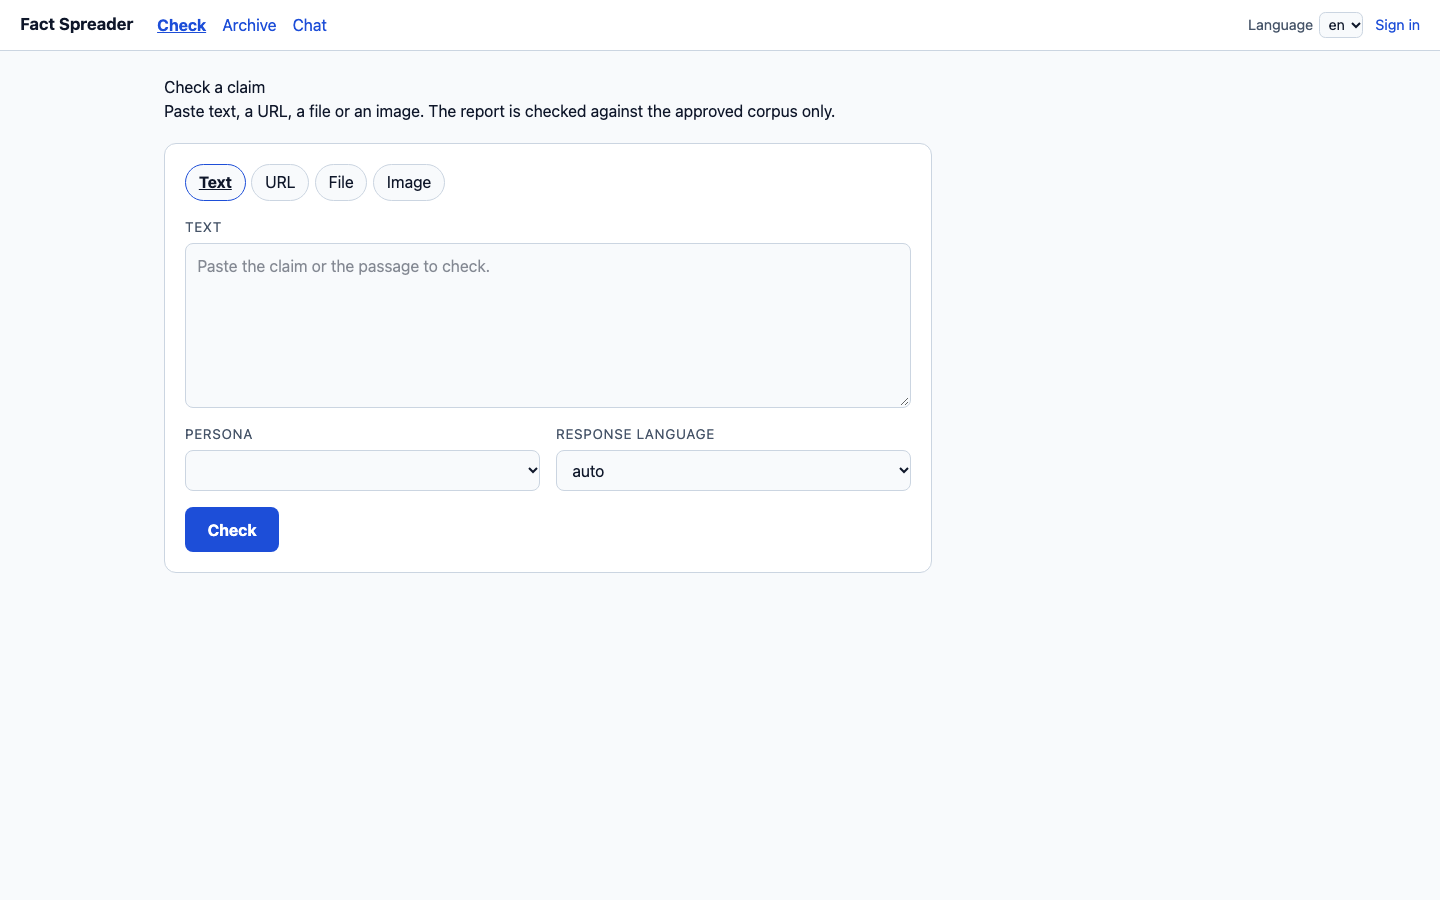
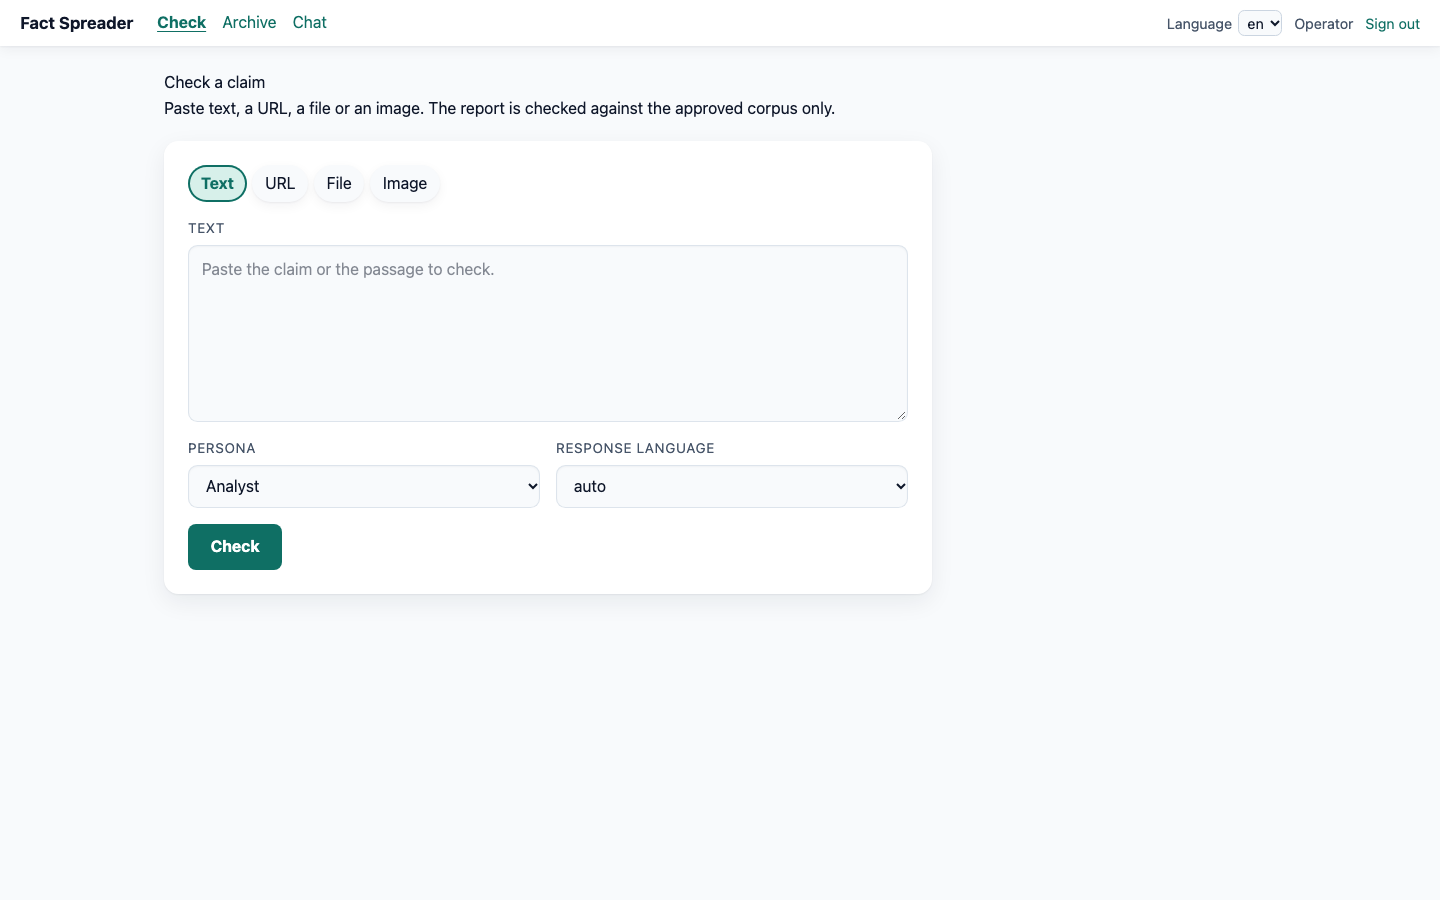
fix: revise the web design tokens, surfaces and spacing
Apply the first visual review: a deep teal brand accent instead of the default link
blue, layered box shadows instead of card and container borders, a shorter sticky
header with a shadow, larger section gaps and reading measure, roomier evidence cards,
and an accent-contrast token so the dark-mode primary button stays readable. Persona
options use humanised labels. Regenerate the screenshots from an existing completed
job so the capture spends no model budget.

Verify: make verify green including web-check. Live image/URL E2E and the chat send
remain blocked: after the reported top-up, the DeepSeek key still returns
provider_error:402 "Insufficient Balance" in a direct probe and in the browser check.
Phase 7 stays in progress at the human visual gate.

diff --git a/web/src/lib/Report.svelte b/web/src/lib/Report.svelte
@@ -156,17 +156,17 @@
 <style>
   .report {
     display: grid;
-    gap: 1.5rem;
-    max-width: 60rem;
+    gap: 2rem;
+    max-width: 64rem;
   }
   .verdict {
     display: flex;
     gap: 1rem;
     align-items: flex-start;
-    border: 2px solid var(--fs-border);
     border-radius: var(--fs-radius);
-    padding: 1rem;
+    padding: 1.25rem 1.35rem;
     background: var(--fs-surface);
+    box-shadow: var(--fs-shadow);
   }
   .mark {
     font-size: 2rem;
@@ -181,22 +181,23 @@
     letter-spacing: 0.08em;
   }
   h2 {
-    margin: 0.1rem 0 0.4rem;
-    font-size: 1.5rem;
+    margin: 0.15rem 0 0.5rem;
+    font-size: 1.65rem;
   }
   .explanation {
     margin: 0;
   }
   .statement {
-    border-top: 1px solid var(--fs-border);
-    padding-top: 1rem;
-    margin-top: 1rem;
+    border-top: 1px solid color-mix(in srgb, var(--fs-border) 55%, transparent);
+    padding-top: 1.25rem;
+    margin-top: 1.25rem;
   }
   .statement-verdict {
     font-weight: 600;
     margin: 0.35rem 0;
   }
   h3 {
+    margin: 0 0 0.9rem;
     font-size: 1.05rem;
     text-transform: uppercase;
     letter-spacing: 0.06em;
@@ -217,14 +218,14 @@
   }
   .evidence {
     display: grid;
-    gap: 0.75rem;
+    gap: 1rem;
     padding-left: 1.2rem;
   }
   .evidence li {
     background: var(--fs-surface);
-    border: 1px solid var(--fs-border);
     border-radius: var(--fs-radius);
-    padding: 0.75rem;
+    box-shadow: var(--fs-shadow-soft);
+    padding: 1rem 1.15rem;
   }
   .source {
     margin: 0 0 0.35rem;
@@ -237,9 +238,9 @@
   }
   .warnings {
     background: var(--fs-surface);
-    border: 1px solid var(--fs-border);
     border-radius: var(--fs-radius);
-    padding: 0.75rem 1rem;
+    box-shadow: var(--fs-shadow-soft);
+    padding: 0.9rem 1.15rem;
   }
   .narrative-text {
     white-space: pre-wrap;

diff --git a/web/src/routes/+page.svelte b/web/src/routes/+page.svelte
@@ -213,9 +213,9 @@
     gap: 1rem;
     max-width: 48rem;
     background: var(--fs-surface);
-    border: 1px solid var(--fs-border);
     border-radius: var(--fs-radius);
-    padding: 1.25rem;
+    box-shadow: var(--fs-shadow);
+    padding: 1.5rem;
   }
   .modes {
     display: flex;
@@ -223,8 +223,9 @@
     flex-wrap: wrap;
   }
   .modes button {
-    border: 1px solid var(--fs-border);
+    border: none;
     background: var(--fs-bg);
+    box-shadow: var(--fs-shadow-soft);
     color: var(--fs-text);
     border-radius: 999px;
     padding: 0.35rem 0.8rem;
@@ -232,9 +233,10 @@
     cursor: pointer;
   }
   .modes button.active {
-    border-color: var(--fs-accent);
+    background: var(--fs-accent-soft);
+    color: var(--fs-accent);
     font-weight: 700;
-    text-decoration: underline;
+    box-shadow: inset 0 0 0 2px var(--fs-accent);
   }
   .field {
     display: grid;
@@ -249,14 +251,21 @@
   textarea,
   input,
   select {
-    padding: 0.6rem 0.7rem;
-    border-radius: 0.5rem;
-    border: 1px solid var(--fs-border);
+    padding: 0.65rem 0.8rem;
+    border-radius: 0.6rem;
+    border: 1px solid color-mix(in srgb, var(--fs-border) 60%, transparent);
     background: var(--fs-bg);
     color: var(--fs-text);
     font: inherit;
     width: 100%;
     box-sizing: border-box;
+    box-shadow: inset 0 1px 2px rgba(15, 23, 42, 0.04);
+  }
+  textarea:focus,
+  input:focus,
+  select:focus {
+    outline: 2px solid var(--fs-accent);
+    outline-offset: 1px;
   }
   .row {
     display: grid;
@@ -269,7 +278,7 @@
     border-radius: 0.5rem;
     border: none;
     background: var(--fs-accent);
-    color: #fff;
+    color: var(--fs-accent-contrast);
     font: inherit;
     font-weight: 700;
     cursor: pointer;

diff --git a/web/tests/e2e/design.spec.ts b/web/tests/e2e/design.spec.ts
@@ -1,0 +1,29 @@
+import { expect, test } from '@playwright/test';
+import { capture, hasCredentials, signIn } from './helpers';
+
+// Design captures must not spend model budget: they reuse an existing report when
+// FS_E2E_REPORT_JOB is set and otherwise capture only screens that need no check.
+test('capture the design screens', async ({ page }) => {
+  test.skip(!hasCredentials, 'FS_E2E_EMAIL/FS_E2E_PASSWORD are not set');
+  await signIn(page);
+  await capture(page, 'check');
+  await page.goto('/chat');
+  await expect(page.getByRole('heading', { name: 'Chat with the check' })).toBeVisible();
+  await capture(page, 'chat');
+  await page.goto('/archive');
+  await page.getByRole('searchbox').fill('Berlin');
+  await page.getByRole('button', { name: 'Search checked claims' }).click();
+  await expect(page.getByRole('link', { name: /Berlin Wall/ }).first()).toBeVisible();
+  await capture(page, 'archive');
+  await page.getByRole('link', { name: /Berlin Wall/ }).first().click();
+  await expect(page.getByRole('heading', { name: 'Version' })).toBeVisible();
+  await capture(page, 'claim');
+
+  const jobId = process.env.FS_E2E_REPORT_JOB;
+  if (jobId) {
+    await page.goto(`/report/${jobId}`);
+    await expect(page.getByRole('heading', { name: 'Report' })).toBeVisible();
+    await expect(page.locator('#verdict-heading')).not.toBeEmpty();
+    await capture(page, 'report');
+  }
+});

diff --git a/web/src/app.css b/web/src/app.css
@@ -6,13 +6,17 @@
   --fs-text: #0f172a;
   --fs-muted: #475569;
   --fs-border: #cbd5e1;
-  --fs-accent: #1d4ed8;
+  --fs-accent: #0f6f64;
+  --fs-accent-contrast: #ffffff;
+  --fs-accent-soft: #d7f0ea;
+  --fs-shadow: 0 1px 2px rgba(15, 23, 42, 0.06), 0 8px 24px rgba(15, 23, 42, 0.07);
+  --fs-shadow-soft: 0 1px 2px rgba(15, 23, 42, 0.05), 0 4px 12px rgba(15, 23, 42, 0.05);
   --fs-true: #166534;
   --fs-misleading: #92400e;
   --fs-false: #991b1b;
   --fs-contested: #6b21a8;
   --fs-insufficient: #334155;
-  --fs-radius: 0.75rem;
+  --fs-radius: 0.9rem;
 }
 
 @media (prefers-color-scheme: dark) {
@@ -22,7 +26,11 @@
     --fs-text: #e2e8f0;
     --fs-muted: #94a3b8;
     --fs-border: #334155;
-    --fs-accent: #93c5fd;
+    --fs-accent: #5eead4;
+    --fs-accent-contrast: #062522;
+    --fs-accent-soft: #123b36;
+    --fs-shadow: 0 1px 2px rgba(0, 0, 0, 0.4), 0 10px 30px rgba(0, 0, 0, 0.35);
+    --fs-shadow-soft: 0 1px 2px rgba(0, 0, 0, 0.3), 0 4px 12px rgba(0, 0, 0, 0.28);
     --fs-true: #86efac;
     --fs-misleading: #fcd34d;
     --fs-false: #fca5a5;
@@ -40,10 +48,16 @@ html {
 body {
   margin: 0;
   min-height: 100vh;
+  line-height: 1.6;
 }
 
 a {
   color: var(--fs-accent);
+  text-underline-offset: 0.2em;
+}
+
+a:hover {
+  text-decoration-thickness: 2px;
 }
 
 @media (prefers-reduced-motion: reduce) {

diff --git a/web/src/routes/login/+page.svelte b/web/src/routes/login/+page.svelte
@@ -59,9 +59,9 @@
     max-width: 26rem;
     margin: 2rem auto;
     background: var(--fs-surface);
-    border: 1px solid var(--fs-border);
     border-radius: var(--fs-radius);
-    padding: 1.5rem;
+    box-shadow: var(--fs-shadow);
+    padding: 1.75rem;
   }
   form {
     display: grid;
@@ -75,7 +75,7 @@
   input {
     padding: 0.55rem 0.7rem;
     border-radius: 0.5rem;
-    border: 1px solid var(--fs-border);
+    border: 1px solid color-mix(in srgb, var(--fs-border) 60%, transparent);
     background: var(--fs-bg);
     color: var(--fs-text);
     font: inherit;
@@ -85,7 +85,7 @@
     border-radius: 0.5rem;
     border: none;
     background: var(--fs-accent);
-    color: #fff;
+    color: var(--fs-accent-contrast);
     font: inherit;
     font-weight: 600;
     cursor: pointer;

diff --git a/web/src/routes/chat/+page.svelte b/web/src/routes/chat/+page.svelte
@@ -126,9 +126,9 @@
   }
   .message {
     background: var(--fs-surface);
-    border: 1px solid var(--fs-border);
     border-radius: var(--fs-radius);
-    padding: 0.75rem 1rem;
+    box-shadow: var(--fs-shadow-soft);
+    padding: 0.9rem 1.1rem;
   }
   .message.user {
     border-left: 4px solid var(--fs-accent);
@@ -163,7 +163,7 @@
     border-radius: 0.5rem;
     border: none;
     background: var(--fs-accent);
-    color: #fff;
+    color: var(--fs-accent-contrast);
     font: inherit;
     font-weight: 600;
     cursor: pointer;

diff --git a/web/src/lib/api.ts b/web/src/lib/api.ts
@@ -178,7 +178,10 @@ export async function listPersonas(): Promise<
     .filter((model) => model.factcheck?.persona_id && model.id !== 'factcheck')
     .map((model) => ({
       id: model.id,
-      label: model.factcheck?.persona_id ?? model.id,
+      label: (model.factcheck?.persona_id ?? model.id)
+        .split(/[-_]/)
+        .map((part) => part.charAt(0).toUpperCase() + part.slice(1))
+        .join(' '),
       output_formats: ['substance', 'persona'],
     }));
 }

diff --git a/web/src/routes/+layout.svelte b/web/src/routes/+layout.svelte
@@ -73,9 +73,12 @@
     flex-wrap: wrap;
     gap: 0.75rem 1.5rem;
     align-items: center;
-    padding: 0.75rem 1.25rem;
-    border-bottom: 1px solid var(--fs-border);
+    padding: 0.6rem 1.25rem;
     background: var(--fs-surface);
+    box-shadow: var(--fs-shadow-soft);
+    position: sticky;
+    top: 0;
+    z-index: 10;
   }
   .brand {
     font-weight: 700;

diff --git a/web/src/routes/archive/+page.svelte b/web/src/routes/archive/+page.svelte
@@ -133,9 +133,9 @@
   }
   .claims li {
     background: var(--fs-surface);
-    border: 1px solid var(--fs-border);
     border-radius: var(--fs-radius);
-    padding: 0.85rem 1rem;
+    box-shadow: var(--fs-shadow-soft);
+    padding: 1rem 1.15rem;
   }
   .claims a {
     font-weight: 600;

diff --git a/docs/PHASE_7_REPORT.md b/docs/PHASE_7_REPORT.md
@@ -39,14 +39,29 @@ image in `docs/screenshots/phase-7/` is a Playwright capture of the running app.
   360 px.
 - Language switching was exercised live: the check heading changes through de/fr/es.
 
+## Visual revision after the first review
+
+The first human review asked for spacing/density changes, a brand accent that is not the
+default link blue, and shadows instead of borders. Applied: the accent is now a deep teal
+(`#0f6f64`, dark mode `#5eead4`), cards, evidence, warnings, messages and the checker use
+soft layered shadows instead of borders, the header is shorter and sticky with a shadow,
+section gaps and the reading measure grew, evidence cards got more internal room, and the
+primary button uses an accent-contrast token so the dark-mode mint stays readable. Persona
+options are humanised labels. The screenshots in `docs/screenshots/phase-7/` were
+regenerated with the new tokens (report screenshots use an existing completed job so the
+capture spends no model budget).
+
 ## Blocked: the live provider balance
 
 The image E2E test failed with `provider_rejected: Insufficient Balance` from DeepSeek, and
-the URL test did not run because it is ordered after it. The failure is the provider
-account balance, not the UI or the pipeline: the job was created, reached the worker and
-stopped at the first paid call. DeepSeek balance exhaustion also means no further live
-check can run until the account is topped up or the chat/moderation role is moved to a
-provider the human approves.
+the URL test did not run because it is ordered after it. After the human reported a
+top-up, a direct capability probe and a browser check still returned
+`provider_error:402:Insufficient Balance` (request ids `085c4d94…` and the preceding
+`f64e4609…`), so the account still has no usable credit from this deployment's key. The
+failure is the provider balance, not the UI or the pipeline: the job was created, reached
+the worker and stopped at the first paid call. No further live check can run until the
+account really has credit or the human approves moving chat/moderation to another
+provider.
 
 Consequences for the Phase 7 done-when list:
 
@@ -57,12 +72,13 @@ Consequences for the Phase 7 done-when list:
 
 ## Gaps to close before the human gate can pass
 
-1. Top up the DeepSeek account (or approve another chat/moderation provider), then re-run
-   `make web-e2e`; the image test uses the probed OpenRouter vision model (role `fs-vision`)
-   and the URL test uses `https://example.com/`.
-2. Capture the chat answer (one send) and the regenerated report screenshots after that run.
-3. Human visual acceptance against PURPOSE §3.14 (the Phase 7 `[human]` check). The agent
-   stops here with the screenshot links.
+1. Confirm the DeepSeek key/account that the stack actually uses (the wizard stored the
+   key from `.env`); the current key still answers 402 after the reported top-up. Then re-run
+   `make web-e2e`; the image test uses the probed OpenRouter vision model (role
+   `fs-vision`) and the URL test uses `https://example.com/`.
+2. Capture the chat answer (one send) after that run.
+3. Human visual acceptance of the revised screenshots against PURPOSE §3.14. The agent
+   stops here.
 
 ## Spend
 

diff --git a/IMPLEMENT.md b/IMPLEMENT.md
@@ -636,8 +636,11 @@ Playwright suite proves archive, chat render, localization, accessibility, a rea
 check through SSE to the report and a Markdown file check, and stores light/dark/360/1440
 screenshots. The image E2E test stopped on `provider_rejected: Insufficient Balance` from
 DeepSeek; the URL test did not run, and no chat send was executed before the balance ran
-out. A human decision on topping up or changing the chat/moderation provider is needed
-before the remaining live E2E and the visual acceptance. The report is
+out. After the human reported a top-up, the provider key still returned
+`402 Insufficient Balance`, so the remaining live E2E is blocked on the account, not the
+code. The first visual review asked for more spacing, a non-default accent and shadows
+instead of borders; that revision is applied and the screenshots are regenerated. The
+report is
 [`docs/PHASE_7_REPORT.md`](docs/PHASE_7_REPORT.md).
 
 **Goal.** A person can sign in, check text/file/image/URL, read the report, browse the
